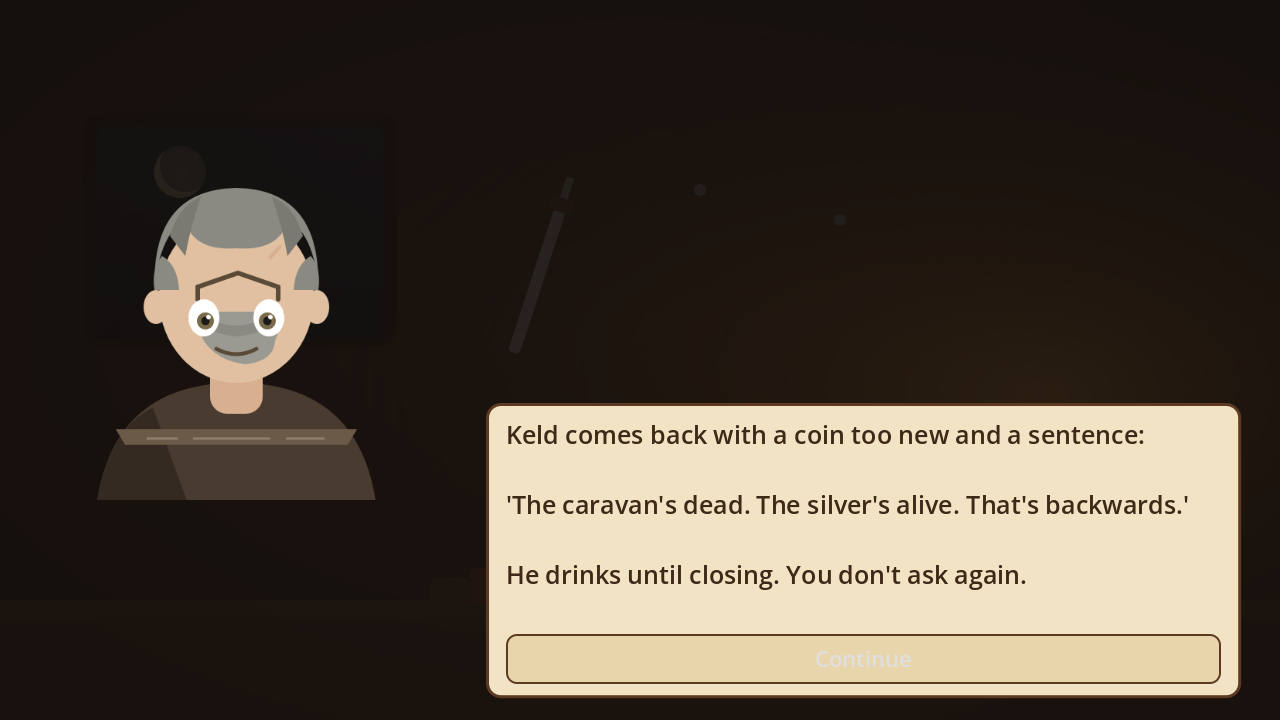
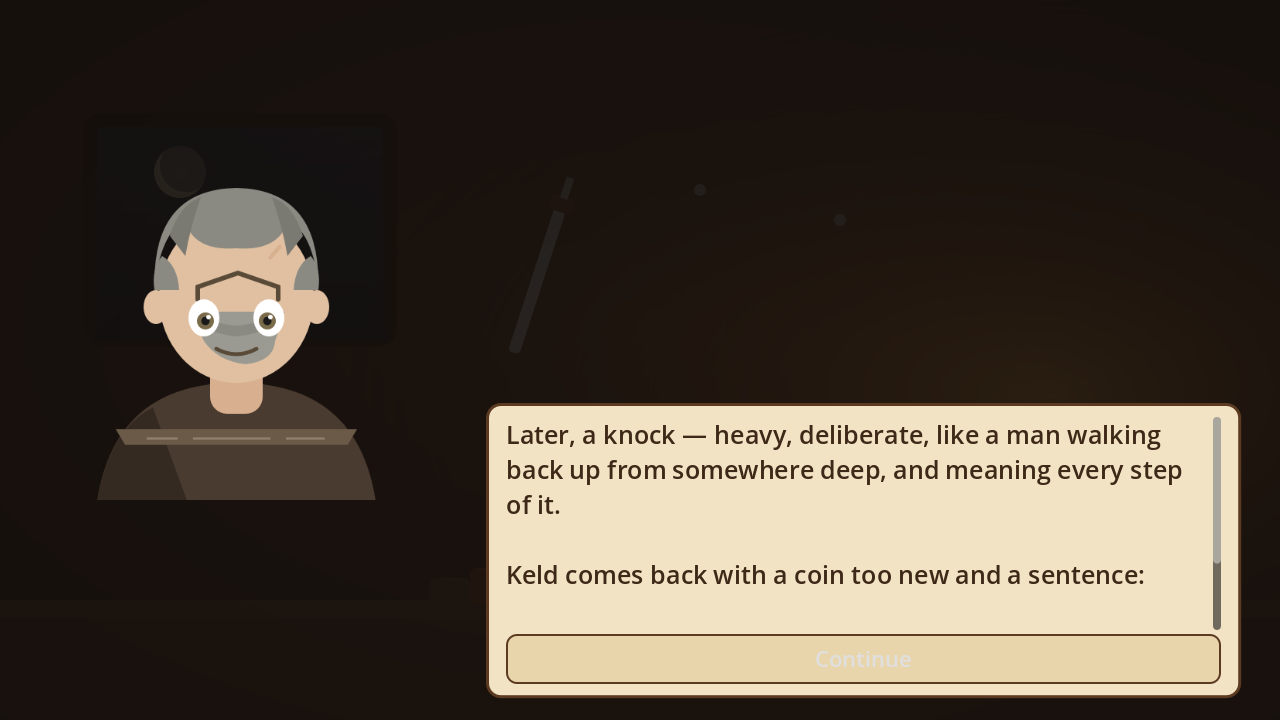
The doorbell: every return announces itself by its step (docs/06)
- The bell is the game's one instrument of suspense, and before this returns
  simply appeared. Now each one reads before the face does: Renn's light,
  running-home step; Keld's heavy, deliberate climb; the woman's measured one.
- The courier is the sharpest tell — a step that isn't hers, worse than the
  knock itself, so the player feels the wrongness before the stranger speaks.
- A one-line system (door_bell prepended in _queue_return): a tell, not a
  readout. The player hears the step and learns it, the way the innkeeper
  would — the game never tells the truth, it lets it be read.
- Added smoke assertions (courier's step is 'not hers'; Keld's is heavy),
  regenerated the return shots, updated README + DECISIONS.

Changed region(s): [[0.375, 0.5806, 0.9688, 0.8861], [0.4062, 0.7639, 0.9062, 0.825]]

diff --git a/DECISIONS.md b/DECISIONS.md
@@ -93,3 +93,8 @@ Considered:
 - **Each regular reads the playthrough.** Their lines are computed live from quests sent, pours chosen, and guest flags (`has_guest_flag`) — Renn's quiet pour comes back to him, Keld remembers the Dark, the kid who came back empty on the caravan still counts.
 - **It's a menu, not a cutscene.** The player chooses who to sit with, which keeps it interactive and lets the same scene land differently every run.
 - **The regulars need no new state.** They're pure reading of existing world + character state — the third feature in a row (night-two sends, night-three mirror, now the regulars) built on the same plumbing, which keeps validating the `db21c9f`/`dad3674` investment.
+
+## Prototype — the doorbell
+
+- **docs/06 names the bell the game's one instrument of suspense.** Before this, returns simply appeared. Now every return announces itself with a step the player learns to read: Renn's light, running-home step; Keld's heavy, deliberate climb; the woman's measured one. The courier's bell is the sharpest — *a step that isn't hers*, worse than the knock.
+- **It's a one-line system** (`door_bell` prepended in `_queue_return`), because it's a *tell* — the game never shows a UI readout of the step; it just lets the player hear it and learn it, the way the innkeeper would. That's the design: the player is never told the truth, they read it.

diff --git a/README.md b/README.md
@@ -53,6 +53,8 @@ Around all of it sits the weather and the quiet (docs/06): each night opens with
 
 And before the door, **the regulars** (docs/01, 07): the inn is a living museum of the playthrough. You can talk to the ones who remain — Garrick always, Fenwick always, Renn and Keld if you sent them, the woman in grey only if she didn't die — and each one reads back how they were treated, the quest they walked, the pour you chose. Absence speaks too.
 
+And every return is announced by **the doorbell** (docs/06): the game's one instrument of suspense. Light step, heavy step, measured step — and, when someone doesn't come back at all, a step that isn't theirs.
+
 Run it:
 
 ```sh
